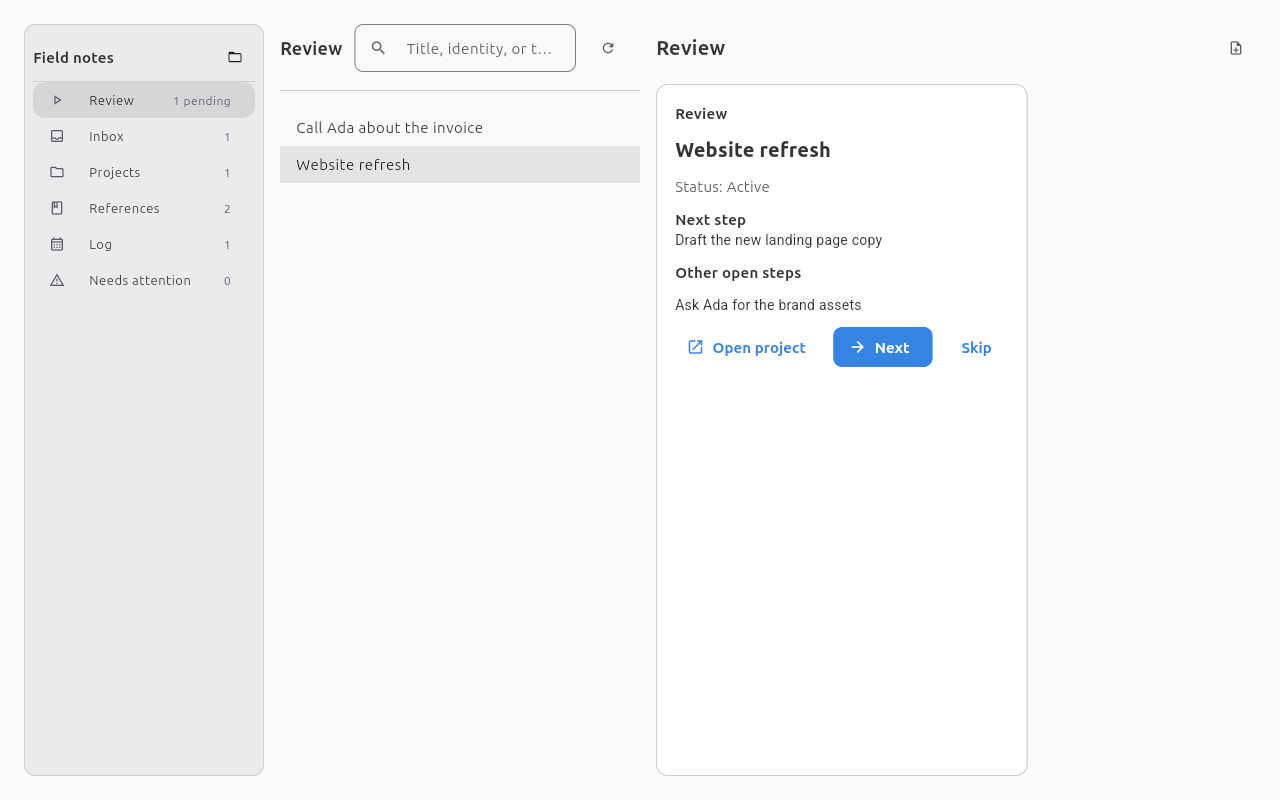
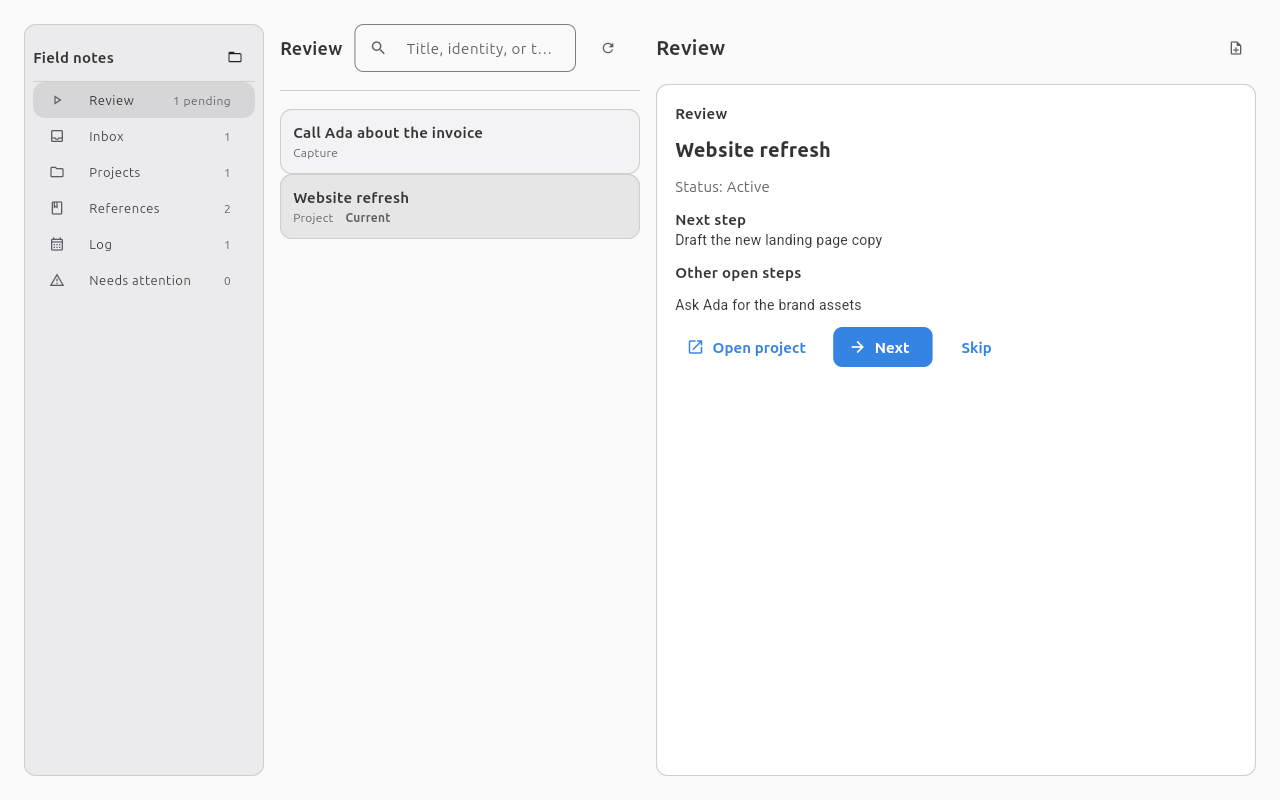
feat(review): make the browser queue selectable cards
Show review items as cards, let a card make its item current without reviewing or skipping, reset transient forms on selection, and stretch the detail review card to the full region width.

Changed region(s): [[0.2188, 0.1562, 0.375, 0.2812]]

diff --git a/tests/ui/test_workspace_view.py b/tests/ui/test_workspace_view.py
@@ -819,8 +819,15 @@ class TestReviewQueue:
         asyncio.run(scenario())
         return afanes.ui.views.workspace.WorkspaceView(_noop, _change_vault, _create_vault, _close_vault)
 
+    def _queue_cards(self, view: afanes.ui.views.workspace.WorkspaceView) -> list[ft.Container]:
+        return [
+            control
+            for control in view.browser_list.controls
+            if isinstance(control, ft.Container) and str(control.key or "").startswith("review-queue-")
+        ]
+
     def _queue_titles(self, view: afanes.ui.views.workspace.WorkspaceView) -> list[str]:
-        return [str(control.title) for control in view.browser_list.controls if isinstance(control, ft.ListTile)]
+        return [_texts(card)[0] for card in self._queue_cards(view)]
 
     def test_the_queue_follows_the_session_order(self, tmp_path: Path, monkeypatch: pytest.MonkeyPatch) -> None:
         view = self._open_review(tmp_path, monkeypatch)
@@ -832,17 +839,36 @@ class TestReviewQueue:
 
     def test_the_current_item_is_marked(self, tmp_path: Path, monkeypatch: pytest.MonkeyPatch) -> None:
         view = self._open_review(tmp_path, monkeypatch)
-        rows = [control for control in view.browser_list.controls if isinstance(control, ft.ListTile)]
+        cards = self._queue_cards(view)
 
-        assert rows[0].selected is True
-        assert not any(row.selected for row in rows[1:])
+        assert cards[0].bgcolor == afanes.ui.theme.SELECTED_ROW_COLOR
+        assert afanes.ui.strings.REVIEW_CURRENT in _texts(cards[0])
+        assert all(card.bgcolor == afanes.ui.theme.SURFACE_CONTAINER_COLOR for card in cards[1:])
 
         asyncio.run(afanes.ui.state.app_state.review.skip())
         view.refresh()
-        rows = [control for control in view.browser_list.controls if isinstance(control, ft.ListTile)]
+        cards = self._queue_cards(view)
 
-        assert rows[0].selected is False
-        assert rows[1].selected is True
+        assert cards[0].bgcolor == afanes.ui.theme.SURFACE_CONTAINER_COLOR
+        assert cards[1].bgcolor == afanes.ui.theme.SELECTED_ROW_COLOR
+        assert afanes.ui.strings.REVIEW_CURRENT not in _texts(cards[0])
+        assert afanes.ui.strings.REVIEW_CURRENT in _texts(cards[1])
+
+    def test_selecting_a_card_makes_it_current(self, tmp_path: Path, monkeypatch: pytest.MonkeyPatch) -> None:
+        view = self._open_review(tmp_path, monkeypatch)
+        state = afanes.ui.state.app_state
+        cards = self._queue_cards(view)
+
+        asyncio.run(_handler(cards[1])())
+
+        session = state.review.review_session
+        assert session is not None
+        assert session.index == 1
+        assert session.reviewed_count == 0
+        assert session.skipped_count == 0
+        cards = self._queue_cards(view)
+        assert cards[1].bgcolor == afanes.ui.theme.SELECTED_ROW_COLOR
+        assert afanes.ui.strings.REVIEW_CURRENT in _texts(cards[1])
 
     def test_new_work_waits_for_the_next_session(self, tmp_path: Path, monkeypatch: pytest.MonkeyPatch) -> None:
         view = self._open_review(tmp_path, monkeypatch)
@@ -870,10 +896,11 @@ class TestReviewQueue:
 
         asyncio.run(scenario())
         view.refresh()
-        rows = [control for control in view.browser_list.controls if isinstance(control, ft.ListTile)]
+        cards = self._queue_cards(view)
 
-        assert rows
-        assert not any(row.selected for row in rows)
+        assert cards
+        assert all(card.bgcolor == afanes.ui.theme.SURFACE_CONTAINER_COLOR for card in cards)
+        assert all(afanes.ui.strings.REVIEW_CURRENT not in _texts(card) for card in cards)
 
     @staticmethod
     def _review_title(item: afanes.core.search.ReviewItem) -> str:

diff --git a/src/afanes/ui/views/workspace.py b/src/afanes/ui/views/workspace.py
@@ -921,7 +921,7 @@ class WorkspaceView:
         )
 
     def _review_queue_controls(self) -> list[ft.Control]:
-        """Build the read-only snapshot queue for the active review session."""
+        """Build the selectable snapshot queue for the active review session."""
         state = self._state
         session = state.review.review_session
         if session is None:
@@ -935,13 +935,62 @@ class WorkspaceView:
                 )
             ]
         return [
-            ft.ListTile(
-                title=self._review_item_title(item),
-                selected=index == session.index,
-                key=f"review-queue-{index}",
-            )
-            for index, item in enumerate(session.items)
+            self._review_card(index, item, current=index == session.index) for index, item in enumerate(session.items)
         ]
+
+    def _review_card(
+        self,
+        index: int,
+        item: afanes.core.search.ReviewItem,
+        *,
+        current: bool,
+    ) -> ft.Control:
+        """Build one clickable review queue card."""
+        kind = afanes.ui.strings.REVIEW_KIND_LABELS[item.kind.value]
+        details: list[ft.Control] = [
+            ft.Text(kind, style=afanes.ui.theme.TEXT_ROLES["caption"]),
+        ]
+        if current:
+            details.append(
+                ft.Text(
+                    afanes.ui.strings.REVIEW_CURRENT,
+                    style=afanes.ui.theme.TEXT_ROLES["caption-heading"],
+                )
+            )
+        return ft.Container(
+            key=f"review-queue-{index}",
+            bgcolor=afanes.ui.theme.SELECTED_ROW_COLOR if current else afanes.ui.theme.SURFACE_CONTAINER_COLOR,
+            border=ft.Border.all(afanes.ui.theme.BORDER_WIDTH, afanes.ui.theme.BORDER_COLOR),
+            border_radius=afanes.ui.theme.SURFACE_RADIUS,
+            padding=afanes.ui.theme.ITEM_GAP,
+            on_click=self._review_select_handler(index),
+            content=ft.Column(
+                controls=[
+                    ft.Text(self._review_item_title(item), style=afanes.ui.theme.TEXT_ROLES["heading"]),
+                    ft.Row(
+                        controls=details,
+                        spacing=afanes.ui.theme.ITEM_GAP,
+                        vertical_alignment=ft.CrossAxisAlignment.CENTER,
+                    ),
+                ],
+                spacing=afanes.ui.theme.BORDER_WIDTH,
+            ),
+        )
+
+    def _review_select_handler(self, index: int) -> Callable[[], Awaitable[None]]:
+        """Bind a no-argument async handler that makes one queue item current."""
+
+        async def handle() -> None:
+            selected = await self._state.review.select(index)
+            if selected:
+                self._show_detail = True
+                self._render_shell()
+                if self._review_view is not None:
+                    self._review_view.reset_transient_state()
+            self._refresh_dynamic()
+            self._update()
+
+        return handle
 
     def _review_item_title(self, item: afanes.core.search.ReviewItem) -> str:
         """Return the display title for one review queue item."""

diff --git a/src/afanes/ui/state/review.py b/src/afanes/ui/state/review.py
@@ -255,6 +255,35 @@ class ReviewState:
             await self._enter_current_review_item()
             return True
 
+    async def select(self, index: int) -> bool:
+        """Make one queue item current without reviewing or skipping it.
+
+        Parameters
+        ----------
+        index : int
+            Position in the snapshot queue.
+
+        Returns
+        -------
+        bool
+            ``True`` when the session moved to that item.
+
+        Notes
+        -----
+        Only the current position changes. The reviewed and skipped records and
+        the queue order stay untouched.
+        """
+        async with self.command_lock:
+            session = self.review_session
+            if session is None or not 0 <= index < len(session.items):
+                return False
+            if index == session.index:
+                return True
+            self.review_session = dataclasses.replace(session, index=index)
+            self.status.clear_message()
+            await self._enter_current_review_item()
+            return True
+
     async def add_step(self, text: str) -> Path | None:
         """Append the next step to the current stalled project.
 

diff --git a/src/afanes/ui/views/review.py b/src/afanes/ui/views/review.py
@@ -48,7 +48,13 @@ class ReviewView:
         self._typed = ""
         self._form_error: str | None = None
         self._confirmation: str | None = None
-        self.root = ft.Column(controls=[], spacing=afanes.ui.theme.ITEM_GAP, expand=True, key="review-view")
+        self.root = ft.Column(
+            controls=[],
+            spacing=afanes.ui.theme.ITEM_GAP,
+            expand=True,
+            horizontal_alignment=ft.CrossAxisAlignment.STRETCH,
+            key="review-view",
+        )
         self.refresh()
 
     def build(self) -> ft.Control:
@@ -60,6 +66,10 @@ class ReviewView:
             Composed review layout.
         """
         return self.root
+
+    def reset_transient_state(self) -> None:
+        """Clear an open form or confirmation between review items."""
+        self._reset_local_state()
 
     def refresh(self) -> None:
         """Rebuild the review controls from the current session."""

diff --git a/src/afanes/ui/strings.py b/src/afanes/ui/strings.py
@@ -120,6 +120,15 @@ REVIEW_STEP_FAILED = "Could not update this step: {detail}"
 REVIEW_PROJECT_FAILED = "Could not update this project: {detail}"
 REVIEW_CAPTURE_READ_FAILED = "Could not read this capture: {detail}"
 REVIEW_DUE = "Due {date}"
+REVIEW_CURRENT = "Current"
+REVIEW_KIND_LABELS = MappingProxyType(
+    {
+        "inbox": "Capture",
+        "due_step": "Due step",
+        "waiting_step": "Waiting step",
+        "project": "Project",
+    }
+)
 WORKSPACE_SECTION_LABELS = MappingProxyType(
     {
         "inbox": "Inbox",

diff --git a/tests/ui/test_review_view.py b/tests/ui/test_review_view.py
@@ -465,3 +465,11 @@ class TestStalledProject:
 
         document = NoteDocument.from_text((tmp_path / "vault" / "projects" / "Launch.md").read_text(encoding="utf-8"))
         assert document.status is Status.LATER
+
+
+class TestLayout:
+    def test_the_review_area_stretches_its_card(self) -> None:
+        view = afanes.ui.views.review.ReviewView(_noop)
+
+        assert isinstance(view.root, ft.Column)
+        assert view.root.horizontal_alignment == ft.CrossAxisAlignment.STRETCH

diff --git a/openspec/changes/adaptive-browser-shell/specs/vault-browsing/spec.md b/openspec/changes/adaptive-browser-shell/specs/vault-browsing/spec.md
@@ -268,29 +268,39 @@ The workspace SHALL show the vault identity in the navigation region and SHALL o
 
 ### Requirement: Review shows its snapshot queue in the browser
 
-While Review is active, the browser SHALL show the session's snapshot queue in review order and SHALL mark the current item. The detail SHALL show the current review card and its actions. Showing the queue MUST NOT reorder it, add new work to it, or change review state.
+While Review is active, the browser SHALL show the session's snapshot queue in review order as selectable cards and SHALL mark the current item. Selecting a card SHALL make that item current in the detail without reviewing, skipping, or reordering any item. Showing the queue MUST NOT reorder it, add new work to it, or change review records.
 
 #### Scenario: The queue is shown in order
 
 - **WHEN** a review session starts with Inbox items, due steps, and projects
-- **THEN** the browser lists them in the session's order
+- **THEN** the browser lists them as cards in the session's order
 
 #### Scenario: The current item is marked
 
 - **WHEN** the review session advances
-- **THEN** the browser marks the new current item
+- **THEN** the browser marks the new current card
+
+#### Scenario: Selecting a card shows that item
+
+- **WHEN** the user selects a card in the browser queue
+- **THEN** the detail shows that item and its actions
+
+#### Scenario: Selecting a card changes no review record
+
+- **WHEN** the user selects a card in the browser queue
+- **THEN** no item is reviewed or skipped and the queue order is unchanged
 
 #### Scenario: New work waits for the next session
 
 - **WHEN** a note is created during the session
 - **THEN** the browser queue does not show it
 
-#### Scenario: The queue does not change review state
+#### Scenario: Viewing the queue changes no review state
 
-- **WHEN** the user views the browser queue
+- **WHEN** the user views the browser queue without selecting a card
 - **THEN** no item is reviewed, skipped, or reordered
 
 #### Scenario: A completed session shows its outcome
 
 - **WHEN** every queue item has been passed
-- **THEN** the browser no longer shows an active item and the detail shows the completion summary
+- **THEN** the browser no longer marks an active card and the detail shows the completion summary

diff --git a/openspec/changes/adaptive-browser-shell/design.md b/openspec/changes/adaptive-browser-shell/design.md
@@ -157,12 +157,15 @@ pattern, and the vault path is better placed with the vault identity.
 ### 7. Review queue
 
 While Review is active, the browser shows the session's snapshot queue from
-`review.review_session.items`, in order, with the current item marked by the neutral selected-row
-token. Rows are read-only: review actions stay in the detail card. This gives the Review
-destination a browser body without adding queue navigation or changing review state.
+`review.review_session.items` as selectable cards, in order, with the current item marked by the
+neutral selected-row token and a text label. Selecting a card moves the session index and shows that
+item in the detail; the review actions stay in the detail card. Selecting changes no reviewed or
+skipped record and never reorders the queue. This gives the Review destination a reactive browser
+without adding automatic review or queue rearrangement.
 
-*Alternative rejected:* make queue rows jump to an item. That is a new review behavior and needs
-its own spec and state command; it is better as a later guided-review change.
+*Alternative rejected:* plain read-only rows. They are simpler, but the queue does not respond to
+the user and the cards give the Review destination the same visual weight as the other browsing
+surfaces.
 
 ### 8. Surfaces and chrome
 

diff --git a/openspec/changes/adaptive-browser-shell/tasks.md b/openspec/changes/adaptive-browser-shell/tasks.md
@@ -83,10 +83,10 @@
   and the other browser actions regular buttons. Verify a workspace test covers switching to Inbox
   and focusing the composer from another destination, and that the composer's Capture button is the
   only suggested action in the workspace.
-- [x] 4.5 Show the Review session's snapshot queue in the browser, in order, with the current item
-  marked and no click or review-state change. Verify review and workspace tests cover the order,
-  the current mark, a completed session, and a note created during the session not joining the
-  queue.
+- [x] 4.5 Show the Review session's snapshot queue in the browser as selectable cards, in order,
+  with the current item marked; selecting a card changes only the current item. Verify review and
+  workspace tests cover the order, the current mark, card selection, a completed session, and a note
+  created during the session not joining the queue.
 - [x] 4.6 Update the `WorkspaceView` and `AppShell` baseline entries in
   `tests/ui/test_conformance.py` for the new menu, capture, and review controls. Verify
   `hatch test tests/ui/test_conformance.py` passes.

diff --git a/docs/guide/review.md b/docs/guide/review.md
@@ -32,10 +32,11 @@ Starting a review snapshots a queue in this order:
 4. Open projects with no open step.
 5. Healthy open projects, for a quick confirmation.
 
-Closed projects are excluded. The browser shows the session's snapshot queue in order and marks the
-current item; the detail region keeps the current card and its actions. Notes created during a session
-do not join the queue and wait for the next review session. The session is not saved across restarts;
-the pending count is recomputed from the vault.
+Closed projects are excluded. The browser shows the session's snapshot queue as cards in order and
+marks the current card; selecting a card makes that item current in the detail, without reviewing or
+skipping anything. The detail region keeps the current card and its actions. Notes created during a
+session do not join the queue and wait for the next review session. The session is not saved across
+restarts; the pending count is recomputed from the vault.
 
 ## 🎛 Card actions
 

diff --git a/openspec/changes/adaptive-browser-shell/proposal.md b/openspec/changes/adaptive-browser-shell/proposal.md
@@ -27,8 +27,8 @@ search, and adaptivity before the remaining HIG waves.
   About Afanes. Remove the status bar; the vault identity moves to the navigation region.
 - Move the capture composer to the top of the Inbox browser column. A New Capture action (Ctrl+N)
   switches to Inbox and focuses the composer from any other destination.
-- Show the guided-review snapshot queue in the browser column while Review is active; the review
-  card keeps its current actions in the detail pane.
+- Show the guided-review snapshot queue in the browser column while Review is active as selectable
+  cards; selecting one makes it current, and the review actions stay in the detail pane.
 - Replace the fixed width with three columns and a breakpoint ladder: navigation + browser + detail
   at 1100 px and above; browser + detail with the navigation behind a toggle at 1024-1099; a
   browse-to-detail stack below 1024 (web). Raise the minimum window to 1024x600, the HIG desktop
